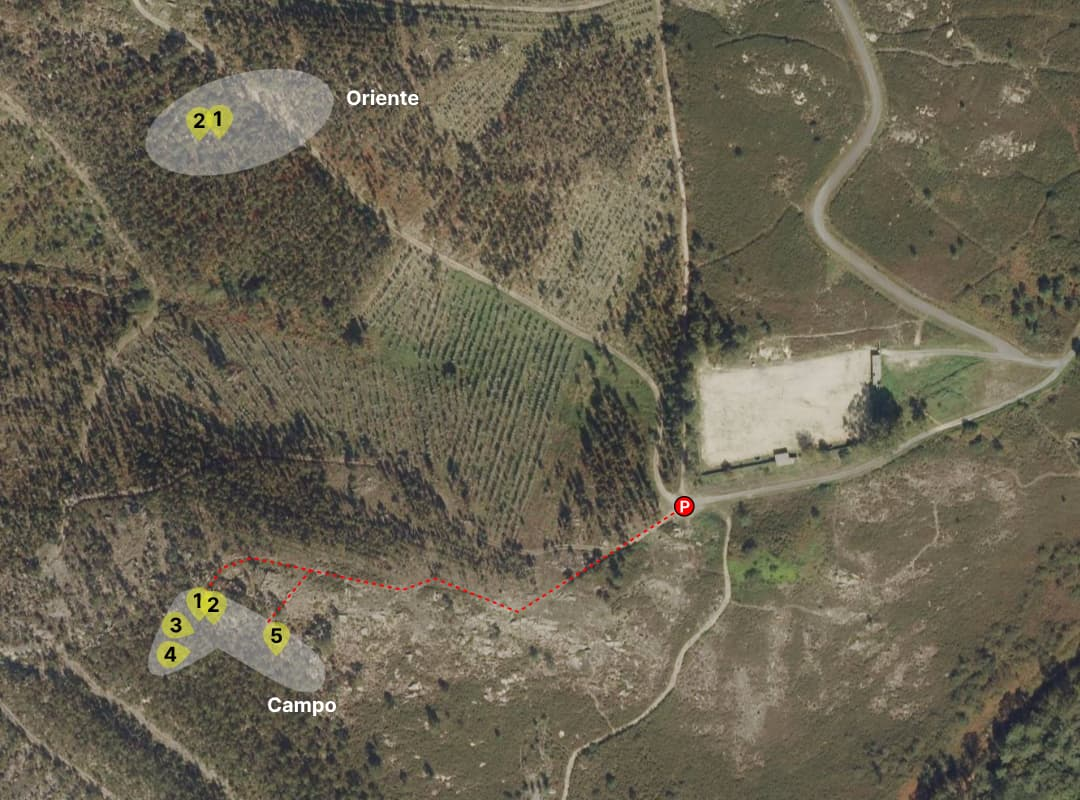
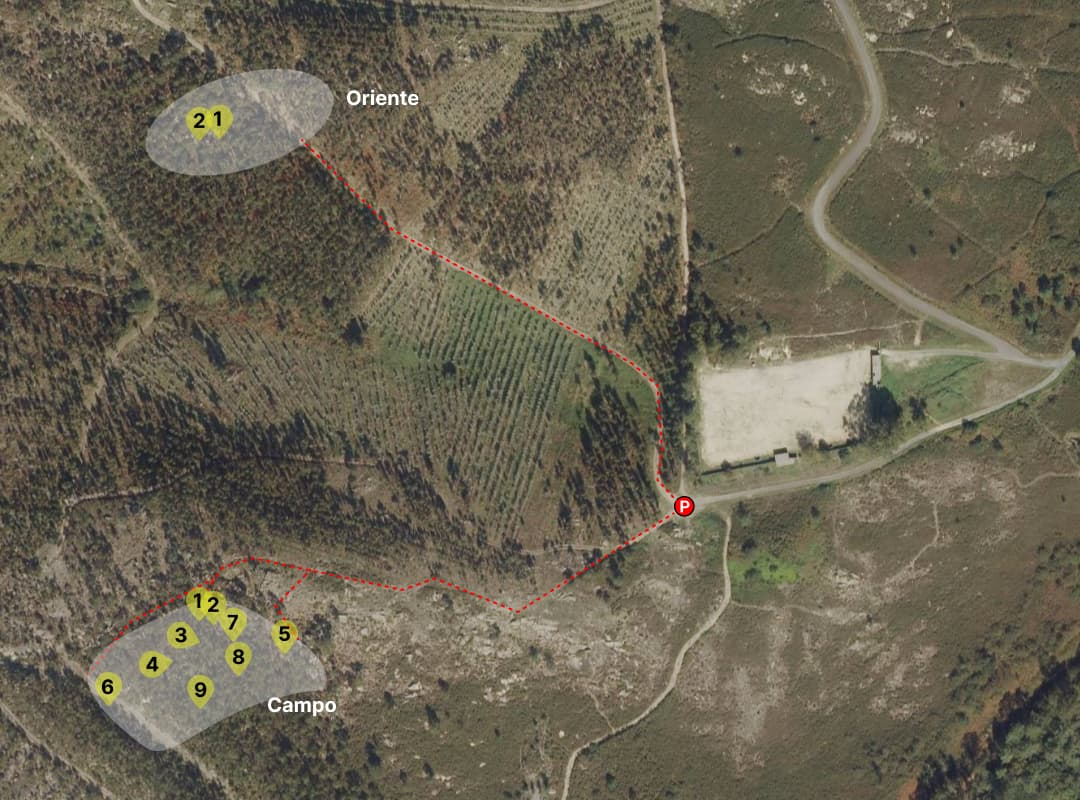
commit update with news boulders in campo

diff --git a/src/routes/lampai/sectores.js b/src/routes/lampai/sectores.js
@@ -5,7 +5,7 @@ export default [
         descripcion: "Gran concentración de bloques con variedade de grados",
         aproximacion: "5 minutos",
         orientacion: "Sur/Oeste",
-        src: ["/lampai/campo_01.jpg", "/lampai/campo_02.jpg", "/lampai/campo_03.jpg", "/lampai/campo_04.jpg", "/lampai/campo_05.jpg"],
+        src: ["/lampai/campo_01.jpg", "/lampai/campo_02.jpg", "/lampai/campo_03.jpg", "/lampai/campo_04.jpg", "/lampai/campo_05.jpg", "/lampai/campo_06.jpg", "/lampai/campo_07.jpg", "/lampai/campo_08.jpg", "/lampai/campo_09.jpg"],
         ubicacion: "https://maps.app.goo.gl/78zD2reLPzufME6h7",
         cordenadas: `42°46'49.9"N 8°37'34.0"W`,
         mapa: "/lampai/mapa_oriente.jpg"
